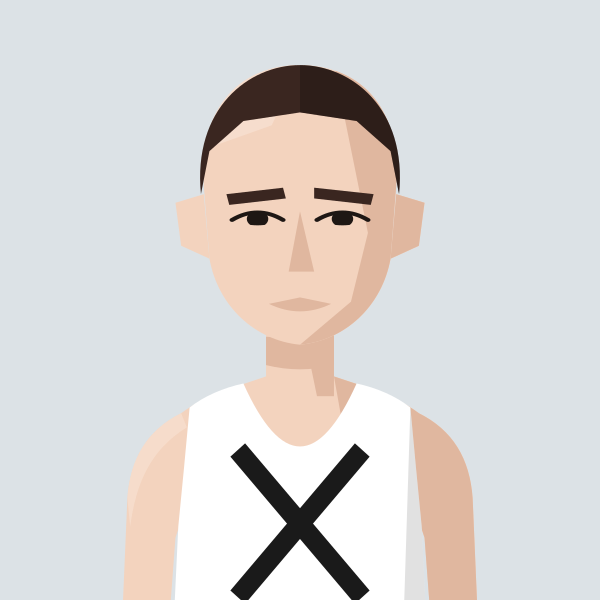
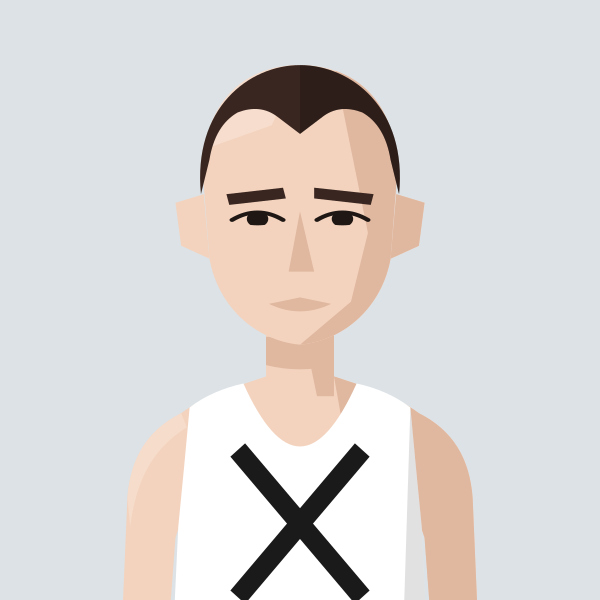
Portraits: widow's peak for Neil Chisholm
Claude-Session: https://claude.ai/code/session_01MgmDWhFqnSSnP4iBLKXUZC

Changed region(s): [[0.36, 0.18, 0.66, 0.3], [0.33, 0.24, 0.36, 0.3]]

diff --git a/tools/gen_portraits.py b/tools/gen_portraits.py
@@ -78,6 +78,7 @@ HAIR = {  # in head coordinates
     "bigcurls": '<path d="M64,104 L57.7,84.4 Q43.0,80.3 55.0,71.2 Q42.5,62.8 56.9,58.0 Q47.8,46.0 63.1,45.9 Q58.4,31.7 73.1,36.3 Q73.2,21.2 85.8,30.1 Q90.8,15.7 100.0,28.0 Q109.2,15.7 114.2,30.1 Q126.8,21.2 126.9,36.3 Q141.6,31.7 136.9,45.9 Q152.2,46.0 143.1,58.0 Q157.5,62.8 145.0,71.2 Q157.0,80.3 142.3,84.4 L136,104 L134,88 Q131,72 122,64 Q112,70 104,63 Q96,70 86,64 Q74,68 69,76 Q66,82 66,88 Z"/>',
     "curlspeak": '<path d="M62,114 L59.6,83.0 Q46.8,78.5 57.0,70.0 Q46.8,61.5 59.6,57.0 Q53.2,45.5 67.1,45.6 Q65.3,32.5 78.5,37.1 Q81.5,24.0 92.5,32.6 Q100.0,21.0 107.5,32.6 Q118.5,24.0 121.5,37.1 Q134.7,32.5 132.9,45.6 Q146.8,45.5 140.4,57.0 Q153.2,61.5 143.0,70.0 Q153.2,78.5 140.4,83.0 L138,114 L134,98 Q132,78 123,66 Q114,60 107,65 L100,74 L93,65 Q86,60 77,66 Q68,78 66,98 Z"/>',
     "curtains": '<path d="M60,108 C54,62 76,32 100,32 C124,32 146,62 140,108 L136,104 C135,94 132,86 126,80 C116,72 107,70 102,58 L98,58 C93,70 84,72 74,80 C68,86 65,94 64,104 Z"/>',
+    "croppeak": '<path d="M65,100 C62,60 82,40 100,40 C118,40 138,60 135,100 L132,84 Q130,68 122,62 Q114,58 108,64 L100,72 L92,64 Q86,58 78,62 Q70,68 68,84 Z"/>',
     "croprecede": '<path d="M65,100 C62,60 82,40 100,40 C118,40 138,60 135,100 L132,84 Q131,64 125,56 Q118,48 111,54 Q105,61 100,61 Q95,61 89,54 Q82,48 75,56 Q69,64 68,84 Z"/>',
     "afro": '<path d="M65,100 C61,90 59,76 60,62 C61,38 78,22 100,21 C122,22 139,38 140,62 C141,76 139,90 135,100 L132,84 C126,72 116,66 100,65 C84,66 74,72 68,84 Z"/>',
     "crop": '<path d="M65,100 C62,60 82,40 100,40 C118,40 138,60 135,100 L132,80 L120,66 L100,62 L80,66 L68,80 Z"/>',
@@ -296,5 +297,5 @@ save("barnes", figure("THH", skin=1, hair="crop", hair_colour="dark brown"))
 save("mcnally", figure("BEL", skin=1, hair="crop", hair_colour="ginger", facial="beard", stars=4))
 save("board", figure("HHH", skin=1, hair="bigcurls", hair_colour="black"))
 save("weir", figure("THH", skin=1, hair="croprecede", hair_colour="dark brown"))
-save("chisholm", figure("THH", skin=1, hair="crop", hair_colour="dark brown"))
+save("chisholm", figure("THH", skin=1, hair="croppeak", hair_colour="dark brown"))
 save("panchev", figure("H/W", skin=2, hair="tousled", hair_colour="black", shades=True))
